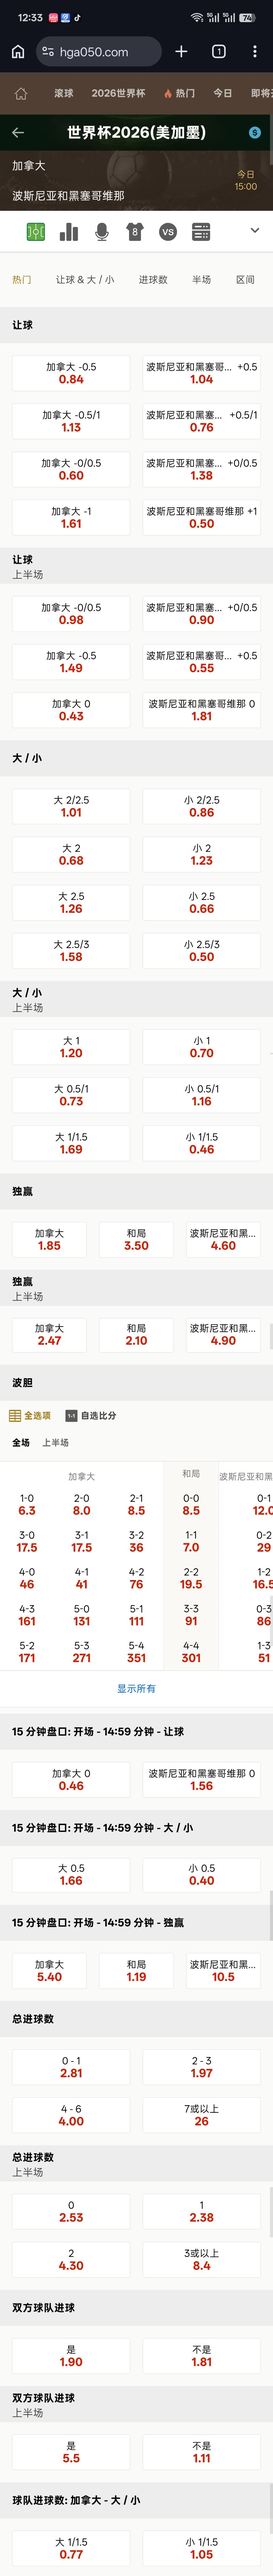
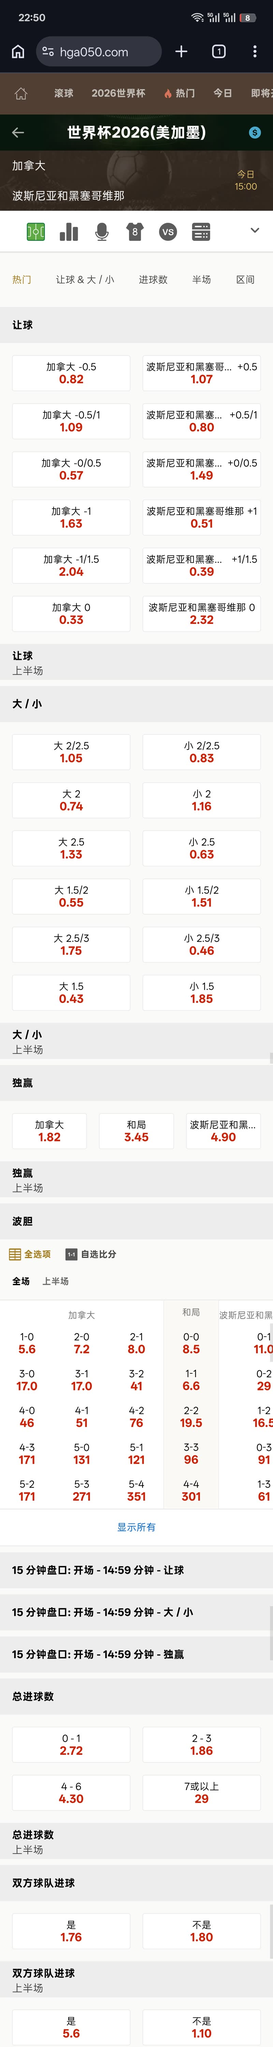
更新赔率截图：加拿大vs波黑、美国vs巴拉圭 - 06/12 22:50

diff --git a/public/index.html b/public/index.html
@@ -64,8 +64,8 @@
     <div class="match-tabs" id="matchTabs">
         <span class="ai-btn" onclick="toggleAI()">🤖 AI分析</span>
         <span class="ai-btn" style="background:#0a2016;border-color:#0a2016" onclick="window.open('predict.html','_self')">🔮 AI预测</span>
-        <span class="active" data-img="usa-par.jpg" data-time="06/12 13:01" onclick="switchTab(this)">🇺🇸 美国 vs 巴拉圭</span>
-        <span data-img="can-bos.jpg" data-time="06/12 13:01" onclick="switchTab(this)">🇨🇦 加拿大 vs 波黑</span>
+        <span class="active" data-img="can-bos.jpg" data-time="06/12 22:50" onclick="switchTab(this)">🇨🇦 加拿大 vs 波黑</span>
+        <span data-img="usa-par.jpg" data-time="06/12 22:50" onclick="switchTab(this)">🇺🇸 美国 vs 巴拉圭</span>
         <span data-img="qat-sui.jpg" data-time="" onclick="switchTab(this)">🇶🇦 卡塔尔 vs 瑞士</span>
         <span data-img="champion.jpg" data-time="" onclick="switchTab(this)">🏆 冠军</span>
     </div>
